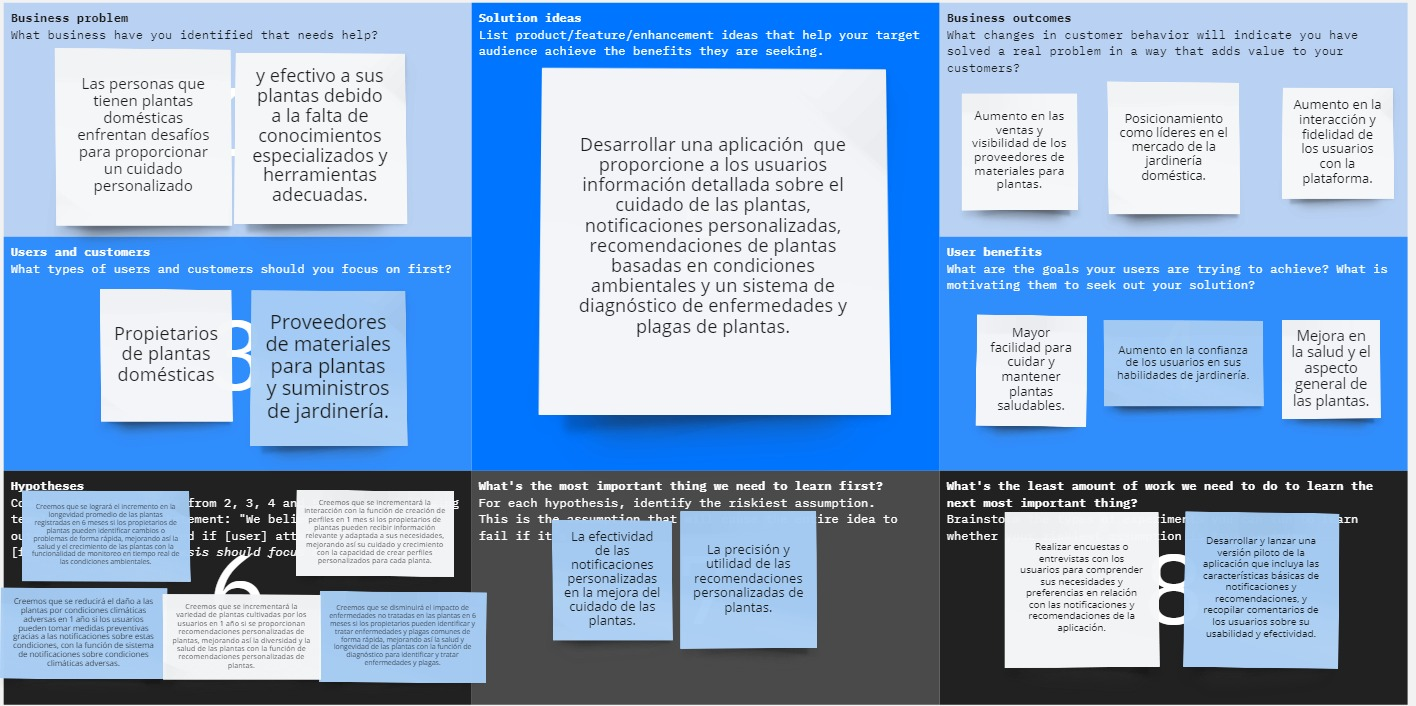
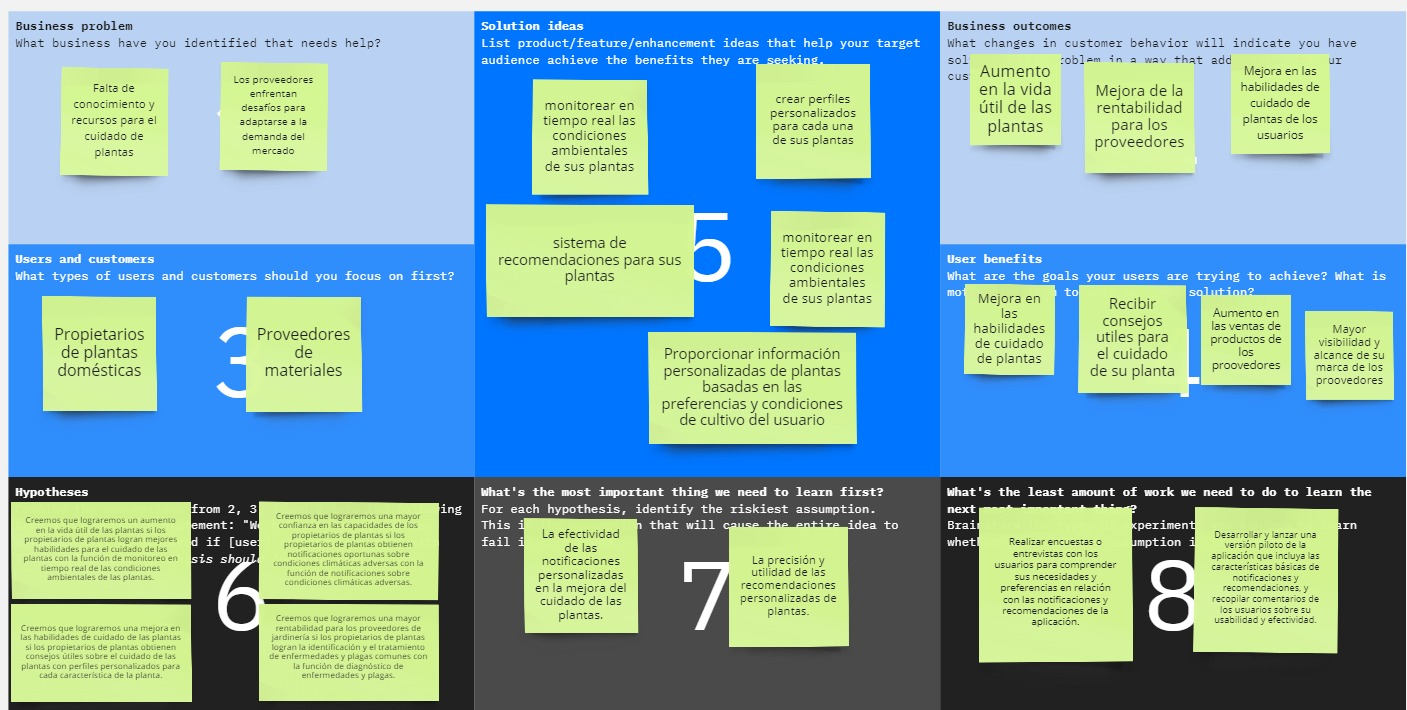
Correct Lean UX Canvas

diff --git a/chapter01.md b/chapter01.md
@@ -48,7 +48,7 @@ La demanda de soluciones inteligentes para el cuidado de plantas está en aument
 ---
 #### 1.2.2.1. Lean UX Problem Statements
 
-El estado actual del cuidado de plantas domésticas se ha centrado principalmente en herramientas y productos genéricos que no abordan las necesidades específicas de cada planta ni de cada cuidador. Además, los proveedores de materiales y suministros para el cuidado de plantas enfrentan desafíos para adaptarse a la demanda del mercado y ofrecer soluciones más personalizadas y adaptadas a las necesidades de los propietarios de plantas.
+El estado actual del cuidado de plantas domésticas se ha centrado principalmente en herramientas y productos genéricos que no abordan las necesidades específicas de cada planta ni de cada cuidador. Además, los proveedores enfrentan desafíos para adaptarse a la demanda del mercado y ofrecer soluciones más personalizadas y adaptadas a las necesidades de los propietarios de plantas.
 Lo que los productos y servicios existentes no logran abordar es la falta de personalización y adaptabilidad a las necesidades individuales de las plantas y sus cuidadores, así como la integración de soluciones avanzadas que faciliten un cuidado más eficiente y efectivo.
 Nuestro producto abordará esta brecha mediante el desarrollo de una plataforma integral que combine tecnología avanzada, información personalizada y recursos especializados para el cuidado de plantas domésticas. Esta plataforma servirá tanto a propietarios de plantas como a proveedores de materiales y suministros para el cuidado de plantas.
 Nuestro enfoque inicial será el segmento de propietarios de plantas domésticas en entornos urbanos que buscan soluciones prácticas y personalizadas para mantener sus plantas saludables y prósperas, a pesar de sus horarios ocupados y las limitaciones de espacio. Al mismo tiempo, nos dirigiremos a proveedores de materiales y suministros para el cuidado de plantas que desean ofrecer soluciones innovadoras y productos de alta calidad que satisfagan las necesidades del mercado.
@@ -58,7 +58,7 @@ Sabremos que tenemos éxito cuando veamos una mejora significativa en la capacid
 
 **User Outcome:**
 
-* Mejora en las habilidades de cuidado de plantas de los usuarios
+* Mejora en las habilidades de cuidado de plantas de los propietarios de plantas
 
 * Recibir consejos utiles para el cuidado de su planta
 
@@ -79,15 +79,15 @@ Sabremos que tenemos éxito cuando veamos una mejora significativa en la capacid
 
 **Features:**
 
-* Permitir a los propietarios de plantas monitorear en tiempo real las condiciones ambientales de sus plantas, incluyendo la luz ultravioleta, la temperatura y la humedad del suelo. Esto proporcionaría una visión detallada del entorno de crecimiento de las plantas y ayudaría a identificar cualquier cambio o problema de forma rápida.
+* Permitir a los propietarios de plantas monitorear en tiempo real las condiciones ambientales de sus plantas, incluyendo la luz ultravioleta, la temperatura y la humedad del suelo y estas tambien se les notifique. Esto proporcionaría una visión detallada del entorno de crecimiento de las plantas y ayudaría a identificar cualquier cambio o problema de forma rápida.
 
 * Los propietarios de plantas podrán crear perfiles personalizados para cada una de sus plantas, donde podrán recibir recomendaciones especificas.
 
-* Integrar un sistema  que notifique a los propietarios de plantas sobre condiciones climáticas adversas que puedan afectar a sus plantas, como heladas, olas de calor o fuertes lluvias. Esto permitiría a los usuarios tomar medidas preventivas para proteger sus plantas.
+* Integrar un sistema de recomendaciones para sus plantas que los propietarios de plantas hayan ingresado en el sistema. Esto permitiría a los usuarios tomar medidas preventivas para proteger sus plantas.
 
-* Incorporar una función de diagnóstico que permita a los propietarios de plantas identificar y tratar enfermedades y plagas comunes que afectan a sus plantas. Esto podría incluir una base de datos de síntomas, imágenes de referencia y soluciones recomendadas.
+* Incorporar una función de diagnóstico que permita a los propietarios de plantas identificar y tratar enfermedades y plagas comunes que afectan a sus plantas.
 
-* Proporcionar informacion personalizadas de plantas basadas en las preferencias y condiciones de cultivo del usuario. Esto podría incluir sugerencias de plantas adecuadas para interiores, exteriores, espacios soleados o sombreados, y niveles de experiencia del cuidador.
+* Proporcionar información personalizadas de plantas basadas en las preferencias y condiciones de cultivo del usuario. Esto podría incluir sugerencias de plantas adecuadas para interiores, exteriores, espacios soleados o sombreados, y niveles de experiencia del cuidador.
 
 
 #### 1.2.2.3. Lean UX Hypothesis Statements
@@ -96,7 +96,7 @@ Sabremos que tenemos éxito cuando veamos una mejora significativa en la capacid
 
 * Creemos que lograremos una mejora en las habilidades de cuidado de las plantas si los propietarios de plantas obtienen consejos útiles sobre el cuidado de las plantas con perfiles personalizados para cada característica de la planta.
 
-* Creemos que lograremos una mayor confianza en las capacidades de los propietarios de plantas si los propietarios de plantas obtienen notificaciones oportunas sobre condiciones climáticas adversas con la función de notificaciones sobre condiciones climáticas adversas.
+* Creemos que lograremos una mayor confianza en las capacidades de los propietarios de plantas si los propietarios de plantas obtienen notificaciones oportunas sobre condiciones climáticas adversas con un sistema de recomendaciones para sus plantas.
 
 * Creemos que lograremos una mayor rentabilidad para los proveedores de jardinería si los propietarios de plantas logran la identificación y el tratamiento de enfermedades y plagas comunes con la función de diagnóstico de enfermedades y plagas.
 
